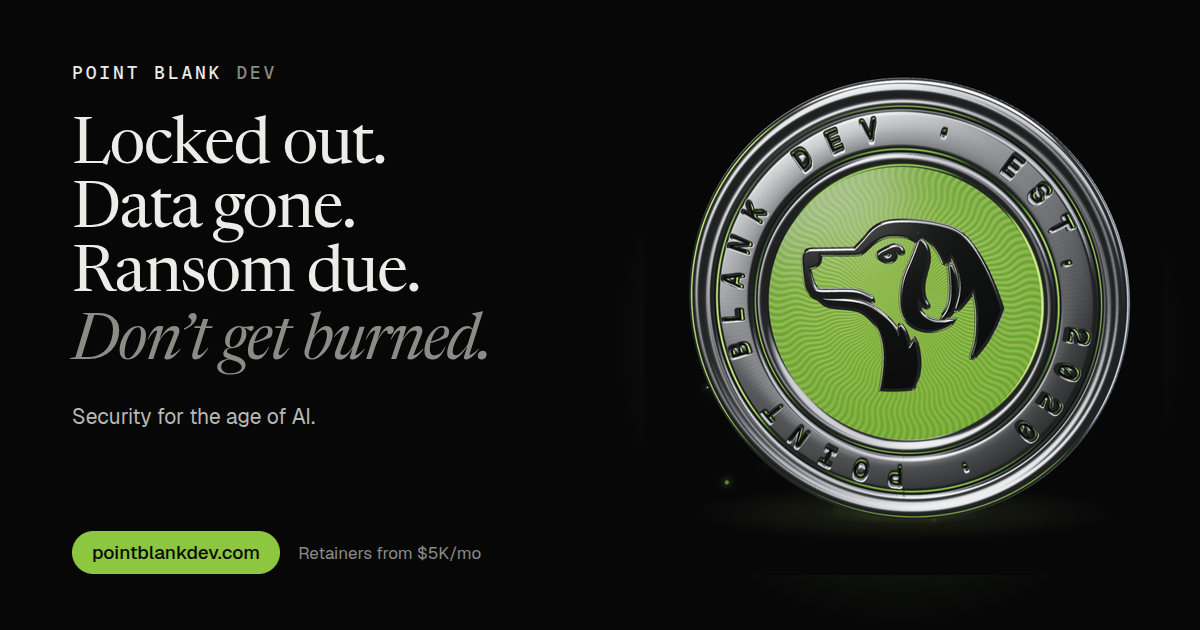
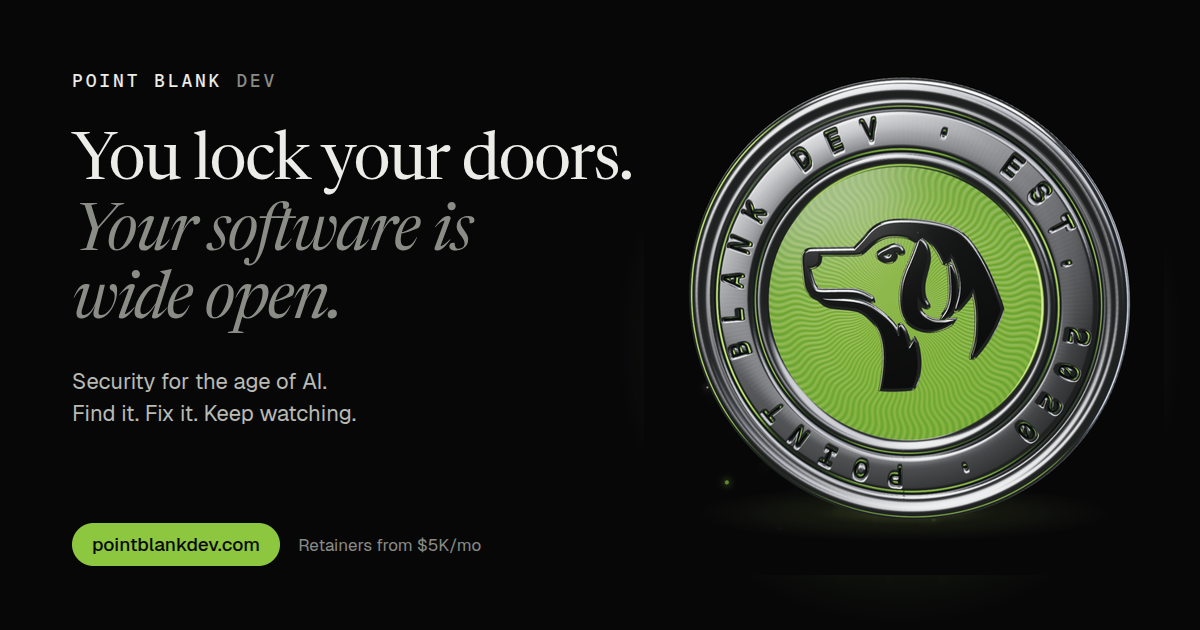
copy: "You lock your doors. Your software is wide open."
- Hero says it in one glance: you're exposed right now, and one open door can cost everything
- Headline lines balance on phones; share card and meta text match

Changed region(s): [[0.0617, 0.181, 0.5242, 0.6937], [0.0617, 0.8143, 0.4008, 0.9349], [0.0617, 0.0905, 0.2467, 0.1508]]

diff --git a/src/pages/index.tsx b/src/pages/index.tsx
@@ -62,17 +62,16 @@ export default function Page() {
           <div className='copy'>
             <p className='eyebrow'>Security for the age of AI</p>
             <h1>
-              Locked out.
-              <br />
-              Data gone.
-              <br />
-              Ransom due.
-              <em>Don’t get burned.</em>
+              You lock your doors.{' '}
+              <em>
+                Your software is
+                <br />
+                wide open.
+              </em>
             </h1>
             <p className='lede'>
-              It happens overnight, with no warning: servers locked, customer data for sale, lawsuits on the way.
-              Everything you built, gone. Swarms of AI agents now hunt every app for one way in. I find it and shut it,
-              before they do.
+              Swarms of AI agents now try every app on the internet, day and night, for one way in. One open door, and
+              everything you’ve built can be gone in an instant. I find the open doors and lock them, before they do.
             </p>
             <div className='actions'>
               <a className='btn' href={BOOK}>
@@ -260,6 +259,7 @@ export default function Page() {
           font-size: clamp(44px, 5.4vw, 80px);
           line-height: 0.98;
           letter-spacing: -0.025em;
+          text-wrap: balance; /* on phones: "You lock / your doors." rather than a lone "doors." */
         }
         h1 em {
           display: block; /* the answer gets its own line */

diff --git a/src/config.tsx b/src/config.tsx
@@ -3,7 +3,7 @@ import Head from 'next/head'
 const titleDefault = 'Point Blank Dev'
 const url = 'https://www.pointblankdev.com/'
 const description =
-  'It happens overnight: servers locked, data gone, ransom due. AI agents now hunt every app for a way in. Ross Ragsdale finds it and shuts it, before they do.'
+  'You lock your doors. Your software is wide open. AI agents now try every app for a way in; Ross Ragsdale finds the open doors and locks them first.'
 const author = 'Ross Ragsdale'
 
 export default function Header({ title = titleDefault }) {
@@ -30,7 +30,7 @@ export default function Header({ title = titleDefault }) {
       <meta property='og:image' content={`${url}og.png`} />
       <meta property='og:image:width' content='1200' />
       <meta property='og:image:height' content='630' />
-      <meta property='og:image:alt' content='Point Blank Dev: Locked out. Data gone. Ransom due. Don’t get burned.' />
+      <meta property='og:image:alt' content='Point Blank Dev: You lock your doors. Your software is wide open.' />
       <meta property='og:site_name' content={titleDefault} />
       <meta property='og:description' content={description} />
 
